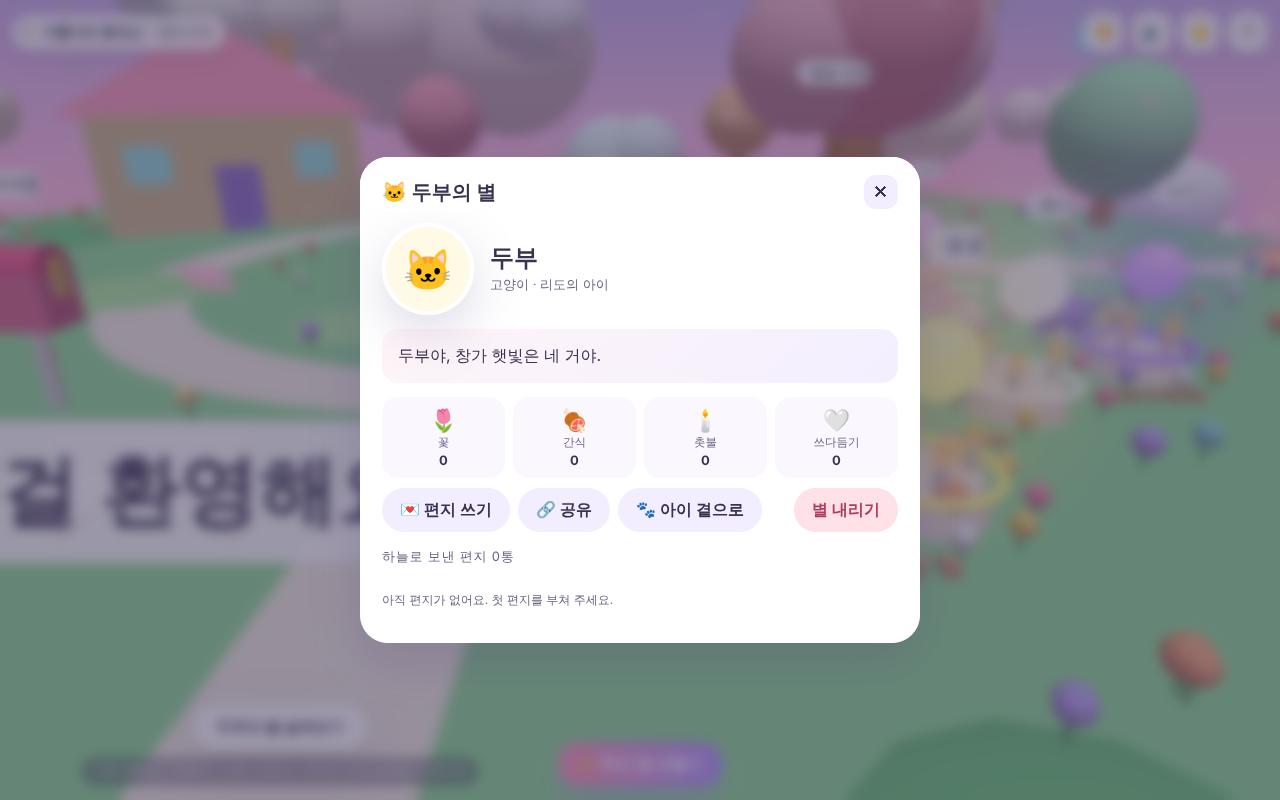
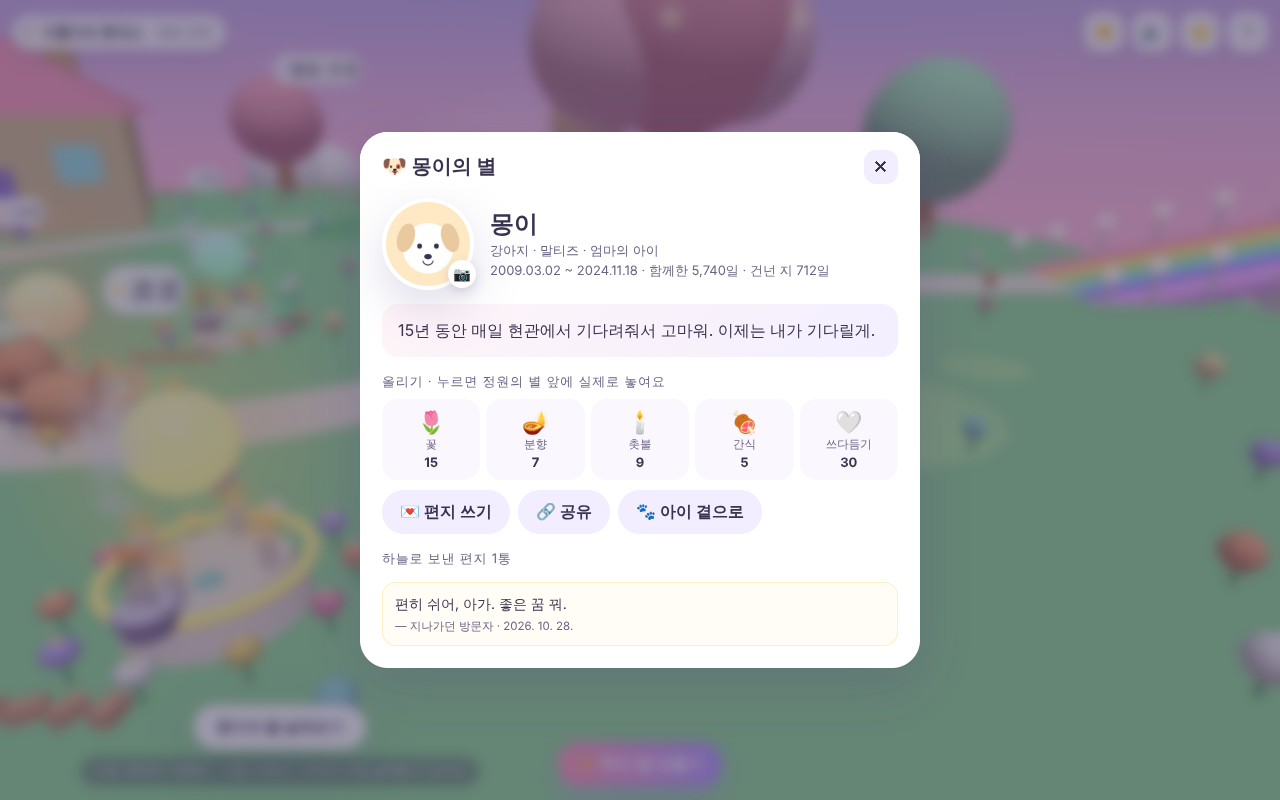
Add photo medallion, incense offering with smoke, and in-card photo editing
Uploaded photos now appear in the 3D world as a round framed medallion on
the memorial star. Add an incense offering that places a censer, sticks and
animated smoke at the star, extend flower decor, and allow changing the
photo from the memorial card. Revise the plan's pricing to one-time
purchases with no subscription.

Claude-Session: https://claude.ai/code/session_01RD1Tm28TVwVcFXUVBHKeCd

diff --git a/cloudbridge/src/world.js b/cloudbridge/src/world.js
@@ -68,6 +68,28 @@ function glowTexture() {
   const t = new THREE.CanvasTexture(c); t.colorSpace = THREE.SRGBColorSpace; return t;
 }
 
+// 업로드 사진을 둥근 액자 메달리온으로
+function photoSprite(dataUrl, colorHex) {
+  const c = document.createElement('canvas'); c.width = c.height = 256;
+  const g = c.getContext('2d');
+  const tex = new THREE.CanvasTexture(c); tex.colorSpace = THREE.SRGBColorSpace;
+  const mat = new THREE.SpriteMaterial({ map: tex, transparent: true, depthWrite: false });
+  const sp = new THREE.Sprite(mat); sp.scale.set(1.7, 1.7, 1);
+  const img = new Image();
+  img.onload = () => {
+    g.clearRect(0, 0, 256, 256);
+    g.fillStyle = colorHex; g.beginPath(); g.arc(128, 128, 126, 0, Math.PI * 2); g.fill();
+    g.fillStyle = '#fff'; g.beginPath(); g.arc(128, 128, 118, 0, Math.PI * 2); g.fill();
+    g.save(); g.beginPath(); g.arc(128, 128, 108, 0, Math.PI * 2); g.clip();
+    const sz = Math.min(img.width, img.height);
+    g.drawImage(img, (img.width - sz) / 2, (img.height - sz) / 2, sz, sz, 20, 20, 216, 216);
+    g.restore();
+    tex.needsUpdate = true;
+  };
+  img.src = dataUrl;
+  return sp;
+}
+
 export class World {
   constructor(canvas) {
     this.canvas = canvas;
@@ -448,14 +470,27 @@ export class World {
     glow.scale.set(3.6, 3.6, 1); glow.position.y = 1.9; g.add(glow);
     const label = makeLabel(`${m.name}`, { accent: m.color === '#ffffff' ? '#b79cff' : m.color }); label.position.y = 3.3; g.add(label);
     const decor = new THREE.Group(); g.add(decor);
-    g.userData = { memorialId: m.id, orb, glow, decor, phase: Math.random() * 10 };
+    g.userData = { memorialId: m.id, orb, glow, decor, label, phase: Math.random() * 10, orbBaseY: 1.9, photo: null, smoke: [] };
     const pos = this.starSlot(index);
     g.position.copy(pos);
     this.scene.add(g);
     this.stars.set(m.id, g);
     this.interactables.push({ id: m.id, kind: 'star', pos: pos.clone(), radius: 2.6, label: `${m.name}의 별 살펴보기`, memorialId: m.id });
     this.refreshStarDecor(m);
+    this.refreshStarPhoto(m);
     return g;
+  }
+  // 사진이 있으면 메달리온을 앞에 두고 별 구슬은 위로 작게 올린다
+  refreshStarPhoto(m) {
+    const g = this.stars.get(m.id); if (!g) return;
+    const u = g.userData;
+    if (u.photo) { g.remove(u.photo); u.photo.material.map.dispose(); u.photo.material.dispose(); u.photo = null; }
+    if (m.photo) {
+      u.photo = photoSprite(m.photo, m.color); u.photo.position.y = 1.85; g.add(u.photo);
+      u.orbBaseY = 3.1; u.orb.scale.setScalar(0.55); u.glow.scale.set(2.4, 2.4, 1); u.label.position.y = 4.1;
+    } else {
+      u.orbBaseY = 1.9; u.orb.scale.setScalar(1); u.glow.scale.set(3.6, 3.6, 1); u.label.position.y = 3.3;
+    }
   }
   removeStar(id) {
     const g = this.stars.get(id); if (!g) return;
@@ -469,8 +504,9 @@ export class World {
     const flowers = Math.min(10, Math.ceil(m.offerings.flower / 3));
     for (let i = 0; i < flowers; i++) {
       const a = (i / flowers) * Math.PI * 2 + 0.3;
-      const f = new THREE.Mesh(new THREE.SphereGeometry(0.16, 8, 6), std([0xff9fbe, 0xffe680, 0xffffff, 0xc9b6ff][i % 4]));
-      f.position.set(Math.cos(a) * 1.35, 0.35, Math.sin(a) * 1.35); d.add(f);
+      const f = new THREE.Mesh(new THREE.SphereGeometry(0.16, 8, 6), std([0xff9fbe, 0xffe680, 0xffffff, 0xc9b6ff, 0xffb98a][i % 5]));
+      f.position.set(Math.cos(a) * 1.35, 0.35, Math.sin(a) * 1.35); f.scale.y = 0.75; d.add(f);
+      const core = new THREE.Mesh(new THREE.SphereGeometry(0.07, 6, 4), std(0xfff3b0)); core.position.set(Math.cos(a) * 1.35, 0.43, Math.sin(a) * 1.35); d.add(core);
       const s = new THREE.Mesh(new THREE.CylinderGeometry(0.03, 0.03, 0.35, 4), std(0x7fd78a)); s.position.set(Math.cos(a) * 1.35, 0.17, Math.sin(a) * 1.35); d.add(s);
     }
     const candles = Math.min(6, Math.ceil(m.offerings.candle / 4));
@@ -478,6 +514,32 @@ export class World {
       const a = (i / candles) * Math.PI * 2;
       const c = new THREE.Mesh(new THREE.CylinderGeometry(0.09, 0.09, 0.35, 8), std(0xfff8ec)); c.position.set(Math.cos(a) * 0.6, 0.67, Math.sin(a) * 0.6); d.add(c);
       const fl = new THREE.Sprite(new THREE.SpriteMaterial({ map: this.glowTex, color: 0xffc46b, transparent: true, depthWrite: false })); fl.scale.set(0.5, 0.5, 1); fl.position.set(Math.cos(a) * 0.6, 0.95, Math.sin(a) * 0.6); d.add(fl);
+    }
+    // 분향: 향로 + 향 + 피어오르는 연기
+    for (const sm of g.userData.smoke) sm.userData.dead = true;
+    g.userData.smoke = [];
+    const sticks = Math.min(3, Math.ceil((m.offerings.incense || 0) / 3));
+    if (sticks > 0) {
+      const bowl = new THREE.Mesh(new THREE.CylinderGeometry(0.28, 0.2, 0.22, 12), std(0xcbbfe6, { metalness: 0.2, roughness: 0.6 }));
+      bowl.position.set(0, 0.61, 1.0); d.add(bowl);
+      const ash = new THREE.Mesh(new THREE.CylinderGeometry(0.24, 0.24, 0.05, 12), std(0xe9e2f5)); ash.position.set(0, 0.73, 1.0); d.add(ash);
+      for (let i = 0; i < sticks; i++) {
+        const x = (i - (sticks - 1) / 2) * 0.09;
+        const st = new THREE.Mesh(new THREE.CylinderGeometry(0.012, 0.012, 0.55, 5), std(0x8a6a4a)); st.position.set(x, 1.0, 1.0); st.rotation.z = (i - 1) * 0.06; d.add(st);
+        const ember = new THREE.Sprite(new THREE.SpriteMaterial({ map: this.glowTex, color: 0xff9a5c, transparent: true, depthWrite: false })); ember.scale.set(0.22, 0.22, 1); ember.position.set(x, 1.28, 1.0); d.add(ember);
+        // 연기 입자 4개가 순환
+        for (let k = 0; k < 4; k++) {
+          const s = new THREE.Sprite(new THREE.SpriteMaterial({ map: this.glowTex, color: 0xeae6f2, transparent: true, opacity: 0, depthWrite: false }));
+          s.userData = { x, k: k / 4 + Math.random() * 0.1, dead: false };
+          d.add(s); g.userData.smoke.push(s);
+          this.animated.push({ obj: s, fn: (o, t) => {
+            const life = (t * 0.22 + o.userData.k) % 1;
+            o.position.set(o.userData.x + Math.sin(t * 1.5 + o.userData.k * 9) * 0.12 * life, 1.3 + life * 1.6, 1.0 + Math.cos(t * 1.1 + o.userData.k * 7) * 0.08 * life);
+            const sc = 0.15 + life * 0.6; o.scale.set(sc, sc, 1);
+            o.material.opacity = Math.sin(life * Math.PI) * 0.45;
+          } });
+        }
+      }
     }
     const treats = Math.min(5, Math.ceil(m.offerings.treat / 4));
     for (let i = 0; i < treats; i++) {
@@ -563,7 +625,7 @@ export class World {
     }
     for (const g of this.stars.values()) {
       const u = g.userData;
-      u.orb.position.y = 1.9 + Math.sin(t * 1.6 + u.phase) * 0.15;
+      u.orb.position.y = u.orbBaseY + Math.sin(t * 1.6 + u.phase) * 0.15;
       u.glow.position.y = u.orb.position.y;
       u.orb.rotation.y += dt * 0.5;
       u.glow.material.opacity = 0.6 + Math.sin(t * 2.2 + u.phase) * 0.15 + this.night * 0.2;

diff --git a/cloudbridge/src/ui.js b/cloudbridge/src/ui.js
@@ -83,7 +83,7 @@ export function openCreate({ nick, onSubmit }) {
   setTimeout(() => el.querySelector('input[name=name]').focus(), 50);
 }
 
-function shrinkImage(file, size) {
+export function shrinkImage(file, size) {
   return new Promise((res) => {
     const img = new Image();
     const url = URL.createObjectURL(file);
@@ -101,13 +101,17 @@ function shrinkImage(file, size) {
 }
 
 // ───────────── 추모 카드 ─────────────
-export function openMemorial(m, { nick, onOffer, onLetter, onDelete, onVisitPet }) {
+export function openMemorial(m, { nick, onOffer, onLetter, onDelete, onVisitPet, onPhoto }) {
   const sp = speciesOf(m.species);
   const dw = daysWith(m), ds = daysSince(m);
   const render = () => {
     const el = modal(`${sp.emoji} ${esc(m.name)}의 별`, `
       <div class="mem-hero">
-        ${m.photo ? `<img class="mem-photo" src="${m.photo}" alt="${esc(m.name)}" />` : `<div class="mem-photo" style="background:${m.color}33">${sp.emoji}</div>`}
+        <label class="mem-photo-wrap" title="사진 올리기/바꾸기">
+          ${m.photo ? `<img class="mem-photo" src="${m.photo}" alt="${esc(m.name)}" />` : `<div class="mem-photo" style="background:${m.color}33">${sp.emoji}</div>`}
+          <span class="mem-photo-edit">📷</span>
+          <input type="file" accept="image/*" hidden id="mem-photo-input" />
+        </label>
         <div>
           <h3 class="mem-name">${esc(m.name)}</h3>
           <p class="mem-dates">${esc(sp.label)}${m.breed ? ' · ' + esc(m.breed) : ''}${m.owner ? ' · ' + esc(m.owner) + '의 아이' : ''}</p>
@@ -115,7 +119,8 @@ export function openMemorial(m, { nick, onOffer, onLetter, onDelete, onVisitPet 
         </div>
       </div>
       <div class="mem-epitaph">${esc(m.epitaph)}</div>
-      <div class="offerings">${OFFERINGS.map((o) => `<button class="offer" data-o="${o.id}"><b>${o.emoji}</b><small>${o.label}</small><em>${m.offerings[o.id] || 0}</em></button>`).join('')}</div>
+      <p class="section-title">올리기 · 누르면 정원의 별 앞에 실제로 놓여요</p>
+      <div class="offerings">${OFFERINGS.map((o) => `<button class="offer" data-o="${o.id}" title="${o.hint}"><b>${o.emoji}</b><small>${o.label}</small><em>${m.offerings[o.id] || 0}</em></button>`).join('')}</div>
       <div class="actions" style="justify-content:space-between">
         <div style="display:flex;gap:8px;flex-wrap:wrap">
           <button class="btn soft" id="btn-letter">💌 편지 쓰기</button>
@@ -140,6 +145,12 @@ export function openMemorial(m, { nick, onOffer, onLetter, onDelete, onVisitPet 
       } catch { toast('공유를 취소했어요.'); }
     });
     el.querySelector('#btn-pet')?.addEventListener('click', () => { closeModal(); onVisitPet(m); });
+    el.querySelector('#mem-photo-input').addEventListener('change', async (e) => {
+      const f = e.target.files[0]; if (!f) return;
+      const photo = await shrinkImage(f, 256);
+      if (!photo) { toast('사진을 읽지 못했어요.'); return; }
+      onPhoto(m, photo); render();
+    });
     el.querySelector('#btn-del')?.addEventListener('click', () => { if (confirm(`${m.name}의 별을 정원에서 내릴까요? 되돌릴 수 없어요.`)) { closeModal(); onDelete(m); } });
   };
   render();

diff --git a/cloudbridge/src/store.js b/cloudbridge/src/store.js
@@ -13,10 +13,11 @@ export const SPECIES = [
 export const COLORS = ['#ff9fbe', '#ffb98a', '#ffe680', '#8fe3a8', '#7fd8d6', '#a98bff', '#ffffff'];
 
 export const OFFERINGS = [
-  { id: 'flower', label: '꽃', emoji: '🌷' },
-  { id: 'treat', label: '간식', emoji: '🍖' },
-  { id: 'candle', label: '촛불', emoji: '🕯' },
-  { id: 'pat', label: '쓰다듬기', emoji: '🤍' },
+  { id: 'flower', label: '꽃', emoji: '🌷', hint: '받침 둘레에 꽃이 늘어나요' },
+  { id: 'incense', label: '분향', emoji: '🪔', hint: '향로에 향을 올리고 연기가 피어올라요' },
+  { id: 'candle', label: '촛불', emoji: '🕯', hint: '촛불이 하나씩 켜져요' },
+  { id: 'treat', label: '간식', emoji: '🍖', hint: '아이가 좋아하던 간식을 놓아요' },
+  { id: 'pat', label: '쓰다듬기', emoji: '🤍', hint: '별빛이 조금 더 커져요' },
 ];
 
 const SEED = [
@@ -60,7 +61,7 @@ export function normalizeMemorial(m) {
     epitaph: (m.epitaph || '').slice(0, 300),
     photo: m.photo || null,
     createdAt: m.createdAt || Date.now(),
-    offerings: { flower: 0, treat: 0, candle: 0, pat: 0, ...(m.offerings || {}) },
+    offerings: { flower: 0, incense: 0, treat: 0, candle: 0, pat: 0, ...(m.offerings || {}) },
     letters: Array.isArray(m.letters) ? m.letters : [],
     sample: !!m.sample,
   };
@@ -74,7 +75,7 @@ export const store = {
   seedIfEmpty() {
     if (this.state.seeded) return;
     const seeds = SEED.map((s, i) => normalizeMemorial({ ...s, sample: true, createdAt: Date.now() - (i + 1) * 86400000 * 9,
-      offerings: { flower: 12 + i * 7, treat: 5 + i * 3, candle: 9 + i * 2, pat: 30 + i * 11 },
+      offerings: { flower: 12 + i * 7, incense: 4 + i * 2, treat: 5 + i * 3, candle: 9 + i * 2, pat: 30 + i * 11 },
       letters: [{ id: uid(), from: '지나가던 방문자', text: '편히 쉬어, 아가. 좋은 꿈 꿔.', at: Date.now() - 86400000 * 3 }] }));
     this.state.memorials = [...seeds, ...this.state.memorials];
     this.state.seeded = true;
@@ -85,6 +86,15 @@ export const store = {
   add(data) {
     const m = normalizeMemorial(data);
     this.state.memorials.push(m);
+    this.save();
+    return m;
+  },
+  update(id, patch) {
+    const m = this.get(id);
+    if (!m) return null;
+    const allowed = ['name', 'breed', 'born', 'passed', 'owner', 'epitaph', 'photo', 'color'];
+    for (const k of allowed) if (k in patch) m[k] = patch[k];
+    Object.assign(m, normalizeMemorial(m));
     this.save();
     return m;
   },

diff --git a/cloudbridge/src/style.css b/cloudbridge/src/style.css
@@ -101,11 +101,14 @@ h1 { margin: 6px 0 10px; font-size: clamp(30px, 6vw, 42px); letter-spacing: -.02
 
 /* memorial card */
 .mem-hero { display: flex; gap: 16px; align-items: center; }
+.mem-photo-wrap { position: relative; cursor: pointer; flex: none; }
+.mem-photo-edit { position: absolute; right: -2px; bottom: 2px; width: 28px; height: 28px; border-radius: 50%; background: #fff; box-shadow: 0 4px 12px rgba(60,40,100,.2); display: grid; place-items: center; font-size: 14px; }
 .mem-photo { width: 92px; height: 92px; border-radius: 50%; object-fit: cover; flex: none; border: 4px solid #fff; box-shadow: var(--shadow); background: #f3eeff; display: grid; place-items: center; font-size: 40px; }
 .mem-name { margin: 0; font-size: 24px; }
 .mem-dates { margin: 2px 0 0; color: var(--ink-soft); font-size: 13px; }
 .mem-epitaph { margin: 14px 0; padding: 14px 16px; background: linear-gradient(135deg, #fff5f8, #f3efff); border-radius: 16px; line-height: 1.6; white-space: pre-wrap; }
-.offerings { display: grid; grid-template-columns: repeat(4, 1fr); gap: 8px; }
+.offerings { display: grid; grid-template-columns: repeat(5, 1fr); gap: 6px; }
+@media (max-width: 420px) { .offerings { grid-template-columns: repeat(3, 1fr); } }
 .offer { border: 0; background: #faf7ff; border-radius: 16px; padding: 10px 6px; cursor: pointer; display: grid; gap: 2px; justify-items: center; transition: transform .12s; }
 .offer:active { transform: scale(.94); }
 .offer b { font-size: 22px; }

diff --git a/cloudbridge/src/main.js b/cloudbridge/src/main.js
@@ -85,12 +85,13 @@ function handlers(m) {
       const n = store.offer(mm.id, type);
       world.refreshStarDecor(mm);
       const g = world.stars.get(mm.id);
-      world.burst(g.position.clone().add(new THREE.Vector3(0, 1.2, 0)), new THREE.Color(mm.color), 14);
-      audio.chime('soft');
+      world.burst(g.position.clone().add(new THREE.Vector3(0, 1.2, 0)), type === 'incense' ? new THREE.Color(0xeae6f2) : new THREE.Color(mm.color), type === 'incense' ? 8 : 14);
+      audio.chime(type === 'incense' ? 'letter' : 'soft');
       return n;
     },
     onLetter: (mm, from, text) => { store.addLetter(mm.id, from, text); audio.chime('letter'); ui.toast('편지가 우체통에 담겼어요. 밤에 등불이 되어 올라가요.'); },
     onDelete: (mm) => { store.remove(mm.id); world.removeStar(mm.id); const a = agents.get(mm.id); if (a) { world.scene.remove(a.mesh); agents.delete(mm.id); } ui.toast(`${mm.name}의 별을 조용히 내렸어요.`); },
+    onPhoto: (mm, photo) => { store.update(mm.id, { photo }); world.refreshStarPhoto(mm); audio.chime('soft'); ui.toast(`${mm.name}의 사진이 별 앞에 걸렸어요.`); },
     onVisitPet: (mm) => { const a = agents.get(mm.id); if (a) { player.teleport(new THREE.Vector3(a.pos.x + 1.5, 0, a.pos.z + 1.5)); } },
   };
 }
